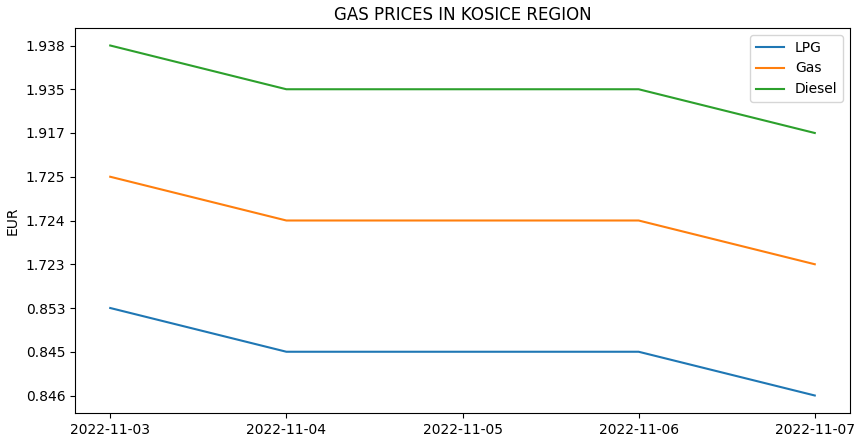
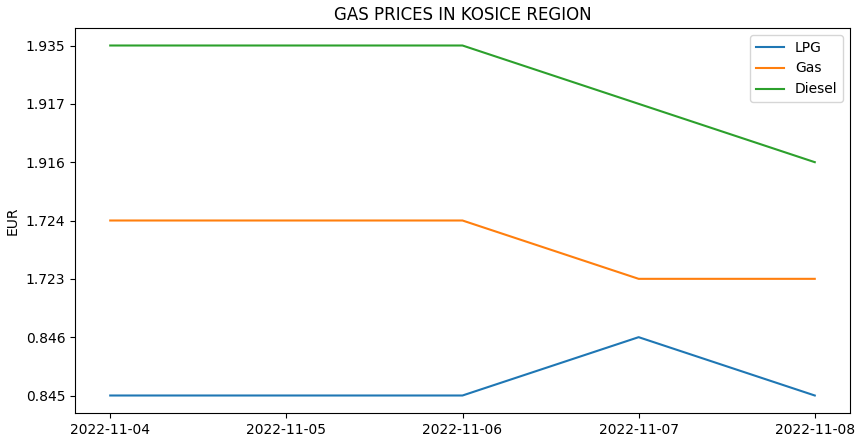
Updating web: 2022-11-08 06:10:55.451245

diff --git a/index.html b/index.html
@@ -15,9 +15,9 @@
   <body>
     <main>
       <header>
-        <h1>Today is Monday, November 07th</h1>
-        <span>week 45, day 311 of the year</span>
-        <span>Today celebrates René</span>
+        <h1>Today is Tuesday, November 08th</h1>
+        <span>week 45, day 312 of the year</span>
+        <span>Today celebrates Bohumír</span>
       </header>
       <modal class="hidden">
         <div class="modal"></div>
@@ -31,27 +31,27 @@
           </article>
           <article class="aktuality">
             <h2>Aktuality</h2>
-            <div> ♦ <a href=https://www.aktuality.sk/clanok/66bw1Qs/zomrel-zakladatel-matadoru-stefan-rosina/ target="_blank">Zomrel zakladateľ Matadoru Štefan Rosina</a></div><div> ♦ <a href=https://www.aktuality.sk/clanok/p5sgyaz/kombajn-zachytil-leziaceho-cloveka-na-poli-v-bratislave/ target="_blank">Kombajn zachytil ležiaceho človeka na poli v Bratislave</a></div><div> ♦ <a href=https://www.aktuality.sk/clanok/xrB8qg5/komentar-lubomira-jaska-ak-orosch-len-napisal-nazor-nech-si-uzije-chrumkave-kusky-demokracie/ target="_blank">Komentár Ľubomíra Jaška: Ak Orosch len napísal názor, nech si užije chrumkavé kúsky demokracie</a></div><div> ♦ <a href=https://www.aktuality.sk/clanok/AuoBUO0/bombardovali-nemecke-rafinerie-no-zajatcami-sa-stali-na-slovensku-letcom-z-usa-sa-lepsie-nemohlo-stat/ target="_blank">Bombardovali nemecké rafinérie, no zajatcami sa stali na Slovensku. Letcom z USA sa lepšie nemohlo stať</a></div><div> ♦ <a href=https://www.aktuality.sk/clanok/S3C9ows/vojna-na-ukrajine-online-primator-klicko-pripravuje-kyjevcanov-aj-na-to-najhorsie/ target="_blank">Vojna na Ukrajine ONLINE: Primátor Kličko pripravuje Kyjevčanov aj na to najhoršie</a></div><div> ♦ <a href=https://www.aktuality.sk/clanok/gT2tmSv/tyzden-vo-filme-netflix-dostane-na-slovensku-novu-konkurenciu-cameron-ukazal-pokracovanie-avatara-a-legendarny-horor-dostane-vlastny-serial/ target="_blank">Týždeň vo filme: Netflix dostane na Slovensku novú konkurenciu, Cameron ukázal pokračovanie Avatara a legendárny horor dostane vlastný seriál</a></div><div> ♦ <a href=https://www.aktuality.sk/clanok/NQHWKpz/cena-za-ii-pilier-sucasni-dochodcovia-maju-priemerne-o-50-eur-nizsi-dochodok-tvrdi-minister-krajniak/ target="_blank">Cena za II. pilier? Súčasní dôchodcovia majú priemerne o 50 eur nižší dôchodok, tvrdí minister Krajniak</a></div>
+            <div> ♦ <a href=https://www.aktuality.sk/clanok/BrvroZe/vojna-na-ukrajine-online-ukrajina-zostatni-niektore-podniky-pre-potreby-armady/ target="_blank">Vojna na Ukrajine ONLINE: Ukrajina zoštátni niektoré podniky pre potreby armády</a></div><div> ♦ <a href=https://www.aktuality.sk/clanok/1T54jqL/unos-vietnamca-vypocuju-exprezidenta-andreja-kisku/ target="_blank">Únos Vietnamca: Vypočujú exprezidenta Andreja Kisku</a></div><div> ♦ <a href=https://www.aktuality.sk/clanok/FiCHitC/otec-utiekol-len-s-parom-topanok-chcel-by-hrat-za-cesko-arber-xhekaj-si-so-slafkovskym-podmanuje-montreal/ target="_blank">Otec utiekol len s párom topánok, chcel by hrať za Česko. Arber Xhekaj si so Slafkovským podmaňuje Montreal</a></div><div> ♦ <a href=https://www.aktuality.sk/clanok/4ew3fuW/panel-expertov-svetova-ekonomika-nebola-v-takejto-situacii-od-2-svetovej-vojny-dlhy-nas-tahaju-ku-dnu/ target="_blank">Panel expertov: Svetová ekonomika nebola v takejto situácii od 2. svetovej vojny. Dlhy nás ťahajú ku dnu</a></div><div> ♦ <a href=https://www.aktuality.sk/clanok/kEZDJaY/v-petrzalskej-kaviarni-bodol-muz-svoju-manzelku-niekolkokrat-do-krku-a-chrbta/ target="_blank">V petržalskej kaviarni bodol muž svoju manželku niekoľkokrát do krku a chrbta</a></div><div> ♦ <a href=https://www.aktuality.sk/clanok/c3QxXEu/rusi-na-ukrajine-hromadne-zomieraju-boj-s-klimou-bez-ruska-a-ciny-podcast/ target="_blank">Rusi na Ukrajine hromadne zomierajú. Boj s klímou bez Ruska a Číny? (podcast)</a></div><div> ♦ <a href=https://www.aktuality.sk/clanok/000MmQ8/zilinka-chce-vediet-ci-funkcionari-nezlyhali-pri-kontrole-hranice-pocas-migracie-dal-preverit-ci-sa-nedopustili-trestnych-cinov/ target="_blank">Žilinka chce vedieť, či funkcionári nezlyhali pri kontrole hranice počas migrácie. Dal preveriť, či sa nedopustili trestných činov</a></div>
           </article>
           <article class="rtvs">
             <h2>RTVS</h2>
-            <div class="rtvs1"><div> ♦ <a href=https://spravy.rtvs.sk/2022/11/zdravotnu-poistovnu-menia-castejsie-chudobnejsi-obcania-tvrdia-analytici/ target="_blank">Zdravotnú poisťovňu menia častejšie chudobnejší občania, tvrdia analytici</a></div><div> ♦ <a href=https://spravy.rtvs.sk/2022/11/ak-skolky-a-umelecke-skoly-nedostanu-financnu-pomoc-priplatia-si-zrejme-rodicia/ target="_blank">Ak škôlky a umelecké školy nedostanú finančnú pomoc, priplatia si zrejme rodičia</a></div><div> ♦ <a href=https://spravy.rtvs.sk/2022/11/v-syrii-pri-raketovych-utokoch-zomrelo-aspon-10-ludi/ target="_blank">V Sýrii pri raketových útokoch zomrelo aspoň 10 ľudí</a></div><div> ♦ <a href=https://spravy.rtvs.sk/2022/11/ruske-urady-hlasia-v-chersone-vypadok-elektriny-a-vody/ target="_blank">Ruské úrady hlásia v Chersone výpadok elektriny a vody</a></div><div> ♦ <a href=https://spravy.rtvs.sk/2022/11/spolutvorca-pata-a-mata-uprednostnil-karieru-karikaturistu-pred-novinarcinou/ target="_blank">Spolutvorca Pata a Mata uprednostnil kariéru karikaturistu pred novinárčinou</a></div><div> ♦ <a href=https://spravy.rtvs.sk/2022/11/talianske-urady-nepovolili-priblizne-opustit-zachrannu-lod-tridsiatke-migrantov/ target="_blank">Talianske úrady nepovolili opustiť záchrannú loď tridsiatke migrantov</a></div><div> ♦ <a href=https://spravy.rtvs.sk/2022/11/slovenski-dopravcovia-v-noci-zablokuju-dialnicu-d2-na-hranici-s-ceskom/ target="_blank">Slovenskí dopravcovia v noci zablokujú diaľnicu D2 na hranici s Českom</a></div><div> ♦ <a href=https://spravy.rtvs.sk/2022/11/oteplovanie-planety-a-stupanie-hladiny-oceanov-sa-zrychluju/ target="_blank">Otepľovanie planéty a stúpanie hladiny oceánov sa zrýchľujú</a></div><div> ♦ <a href=https://spravy.rtvs.sk/2022/11/remisova-povazuje-referendum-za-kampan-smeru-a-hlasu/ target="_blank">Remišová považuje referendum za kampaň Smeru a Hlasu</a></div><div> ♦ <a href=https://spravy.rtvs.sk/2022/11/materske-skoly-navstevuje-necela-tretina-deti-z-marginalizovanych-komunit/ target="_blank">Materské školy navštevuje necelá tretina detí z marginalizovaných komunít</a></div></div>
+            <div class="rtvs1"><div> ♦ <a href=https://spravy.rtvs.sk/2022/11/na-masovom-pohrebisku-pri-mariupole-pribudlo-1-500-novych-hrobov/ target="_blank">Na masovom pohrebisku pri Mariupole pribudlo 1 500 nových hrobov</a></div><div> ♦ <a href=https://spravy.rtvs.sk/2022/11/obyvatelia-obce-zehra-sa-uz-roky-marne-snazia-o-oddelenie-od-osady-drevenik/ target="_blank">Obyvatelia obce Žehra sa už roky márne snažia o oddelenie od osady Dreveník</a></div><div> ♦ <a href=https://spravy.rtvs.sk/2022/11/vedenie-slovenskej-policie-kritizuje-ceskych-kolegov-hovori-o-prevadzacstve/ target="_blank">Vedenie slovenskej polície kritizuje českých kolegov, hovorí o prevádzačstve</a></div><div> ♦ <a href=https://spravy.rtvs.sk/2022/11/specializovane-zdravotnicke-zariadenia-bojuju-so-zvysovanim-cien-energii/ target="_blank">Špecializované zdravotnícke zariadenia bojujú so zvyšovaním cien energií</a></div><div> ♦ <a href=https://spravy.rtvs.sk/2022/11/spustili-dotacie-na-obnovu-pamiatok/ target="_blank">Spustili dotácie na obnovu pamiatok</a></div><div> ♦ <a href=https://spravy.rtvs.sk/2022/11/narodne-parky-muranska-planina-a-poloniny-dostanu-peniaze-z-planu-obnovy/ target="_blank">Národné parky Muránska planina a Poloniny dostanú peniaze z plánu obnovy</a></div><div> ♦ <a href=https://spravy.rtvs.sk/2022/11/klimaticka-kriza-nepocka-na-koniec-tej-energetickej-vyhlasila-prezidentka/ target="_blank">Klimatická kríza nepočká na koniec tej energetickej, vyhlásila prezidentka</a></div><div> ♦ <a href=https://spravy.rtvs.sk/2022/11/na-brehoch-liptovskej-mary-zacali-odstranovat-cierne-stavby/ target="_blank">Na brehoch Liptovskej Mary začali odstraňovať čierne stavby</a></div><div> ♦ <a href=https://spravy.rtvs.sk/2022/11/v-madarsku-obvinili-obcana-slovenska-podozriveho-z-vrazdy-zeny-v-ostrihome/ target="_blank">V Maďarsku obvinili občana Slovenska podozrivého z vraždy ženy v Ostrihome</a></div><div> ♦ <a href=https://spravy.rtvs.sk/2022/11/za-nizku-porodnost-mozu-zeny-ktore-piju-alkohol-tvrdi-kaczynski/ target="_blank">Za nízku pôrodnosť môžu ženy, ktoré pijú alkohol, tvrdí Kaczyňski</a></div></div>
             <button class="button-expand">EXPAND</button>
-            <div class="collapse rtvs2 hidden"><div> ♦ <a href=https://spravy.rtvs.sk/2022/11/britania-oslavi-korunovaciu-krala-karola-iii-statnym-sviatkom/ target="_blank">Británia oslávi korunováciu kráľa Karola III. štátnym sviatkom</a></div><div> ♦ <a href=https://spravy.rtvs.sk/2022/11/za-overenie-profilu-sa-na-twitteri-po-novom-plati/ target="_blank">Za overenie profilu sa na Twitteri po novom platí</a></div><div> ♦ <a href=https://spravy.rtvs.sk/2022/11/v-tanzanii-havarovalo-dopravne-lietadlo-spadlo-do-viktoriinho-jazera/ target="_blank">V Tanzánii havarovalo dopravné lietadlo. Hlásia 19 obetí</a></div><div> ♦ <a href=https://spravy.rtvs.sk/2022/11/tisice-peruancov-ziadalo-odstupenie-prezidenta-castilla/ target="_blank">Tisíce Peruáncov žiadalo odstúpenie prezidenta Castilla</a></div><div> ♦ <a href=https://spravy.rtvs.sk/2022/11/zaporozska-atomova-elektraren-je-opat-napojena-na-vonkajsi-zdroj-energie/ target="_blank">Záporožská atómová elektráreň je opäť napojená na vonkajší zdroj energie</a></div><div> ♦ <a href=https://spravy.rtvs.sk/2022/11/pri-poziari-obytneho-domu-v-new-yorku-sa-zranilo-38-ludi/ target="_blank">Pri požiari obytného domu v New Yorku sa zranilo 38 ľudí</a></div></div>
+            <div class="collapse rtvs2 hidden"><div> ♦ <a href=https://spravy.rtvs.sk/2022/11/energeticky-narocnym-podnikom-pomoze-stat-tento-rok-podporou-vo-vyske-40-milionov-eur/ target="_blank">Energeticky náročným podnikom pomôže štát tento rok podporou vo výške 40 miliónov eur</a></div><div> ♦ <a href=https://spravy.rtvs.sk/2022/11/putinov-kuchar-prigozin-zasahoval-do-volieb-v-usa/ target="_blank">Putinov „kuchár“ Prigožin zasahoval do volieb v USA</a></div><div> ♦ <a href=https://spravy.rtvs.sk/2022/11/najvyssi-spravny-sud-oslobodil-sudkyne-ktore-rozhodovali-o-televiznej-zmenke/ target="_blank">Najvyšší správny súd oslobodil sudkyne, ktoré rozhodovali o televíznej zmenke</a></div><div> ♦ <a href=https://spravy.rtvs.sk/2022/11/oktobrova-revolucia-znamenala-koniec-demokratickeho-ruska/ target="_blank">Októbrová revolúcia znamenala koniec demokratického Ruska</a></div><div> ♦ <a href=https://spravy.rtvs.sk/2022/11/svet-je-na-ceste-do-klimatickeho-pekla-povedal-na-uvod-cop27-guterres/ target="_blank">Svet je na ceste do klimatického pekla, povedal na úvod COP27 Guterres</a></div><div> ♦ <a href=https://spravy.rtvs.sk/2022/11/slagrom-baraze-europskej-ligy-bude-duel-medzi-fc-barcelona-a-manchestrom-united/ target="_blank">Šlágrom baráže Európskej ligy bude duel medzi FC Barcelona a Manchestrom United</a></div><div> ♦ <a href=https://spravy.rtvs.sk/2022/11/nositelka-dvoch-nobelovych-cien-sa-stala-prvou-profesorkou-na-prestiznej-sorbonne/ target="_blank">Nositeľka dvoch Nobelových cien sa stala prvou profesorkou na prestížnej Sorbonne</a></div><div> ♦ <a href=https://spravy.rtvs.sk/2022/11/trnavsky-arcibiskup-sa-ospravedlnil-rodinam-obeti-zo-zamockej/ target="_blank">Trnavský arcibiskup sa ospravedlnil rodinám obetí zo Zámockej</a></div><div> ♦ <a href=https://spravy.rtvs.sk/2022/11/viaceri-ho-prehovarali-aby-sa-stal-prvym-slovenskym-prezidentom/ target="_blank">Viacerí ho prehovárali, aby sa stal prvým slovenským prezidentom</a></div><div> ♦ <a href=https://spravy.rtvs.sk/2022/11/cena-akcii-gazpromu-od-zaciatku-invazie-spadla-takmer-o-90-percent/ target="_blank">Cena akcií Gazpromu od začiatku invázie spadla takmer o 90 percent</a></div><div> ♦ <a href=https://spravy.rtvs.sk/2022/11/v-osemfinale-lm-sa-zopakuje-vlanajsie-finale-real-nastupi-proti-liverpoolu/ target="_blank">V osemfinále LM sa zopakuje vlaňajšie finále, Real nastúpi proti Liverpoolu</a></div><div> ♦ <a href=https://spravy.rtvs.sk/2022/11/macron-vyzval-usa-a-cinu-aby-pomohli-chudobnejsim-krajinam-v-boji-s-klimatickou-zmenou/ target="_blank">Macron vyzval USA a Čínu, aby pomohli chudobnejším krajinám v boji s klimatickou zmenou</a></div><div> ♦ <a href=https://spravy.rtvs.sk/2022/11/vlada-schvalila-poskytovanie-dotacii-podnikom-na-vysoke-ceny-energii/ target="_blank">Vláda schválila poskytovanie dotácií podnikom na vysoké ceny energií</a></div><div> ♦ <a href=https://spravy.rtvs.sk/2022/11/cas-na-prezutie-zimnych-pneumatik-sa-krati/ target="_blank">Čas na prezutie zimných pneumatík sa kráti</a></div><div> ♦ <a href=https://spravy.rtvs.sk/2022/11/po-julovom-zosuve-ladovca-je-lyziarska-sezona-na-masive-marmolada-v-ohrozeni/ target="_blank">Po júlovom zosuve ľadovca je lyžiarska sezóna na masíve Marmolada v ohrození</a></div><div> ♦ <a href=https://spravy.rtvs.sk/2022/11/zilinka-dal-preverit-opatrenia-na-hraniciach-v-suvislosti-s-nelegalnou-migraciou/ target="_blank">Žilinka dal preveriť opatrenia na hraniciach v súvislosti s nelegálnou migráciou</a></div><div> ♦ <a href=https://spravy.rtvs.sk/2022/11/prezidentka-odmieta-tvrdenia-ze-referendum-mohla-vyhlasit-uz-v-oktobri/ target="_blank">Prezidentka odmieta tvrdenia, že referendum  mohla vyhlásiť už v októbri</a></div><div> ♦ <a href=https://spravy.rtvs.sk/2022/11/mrakodrap-v-dubaji-zachvatili-plamene/ target="_blank">Mrakodrap v Dubaji zachvátili plamene</a></div><div> ♦ <a href=https://spravy.rtvs.sk/2022/11/ukrajinci-sa-maju-prichystat-na-dalsie-vypadky-odkazal-prenosovy-operator/ target="_blank">Ukrajinci sa majú prichystať na ďalšie výpadky, odkázal prenosový operátor</a></div><div> ♦ <a href=https://spravy.rtvs.sk/2022/11/sas-vyzyva-premiera-na-zvolanie-mimoriadnej-bezpecnostnej-rady-sr/ target="_blank">SaS vyzýva premiéra na zvolanie mimoriadnej Bezpečnostnej rady SR</a></div><div> ♦ <a href=https://spravy.rtvs.sk/2022/11/vacsina-novinarok-celi-virtualnemu-obtazovaniu-ci-vyhrazkam/ target="_blank">Väčšina novinárok čelí virtuálnemu obťažovaniu či vyhrážkam</a></div><div> ♦ <a href=https://spravy.rtvs.sk/2022/11/autodopravcovia-ukoncili-blokadu-hranicneho-priechodu-s-ceskom/ target="_blank">Autodopravcovia ukončili blokádu hraničného priechodu s Českom</a></div><div> ♦ <a href=https://spravy.rtvs.sk/2022/11/zrazku-autobusu-s-kamionom-v-guinei-neprezilo-najmenej-24-ludi/ target="_blank">Zrážku autobusu s kamiónom v Guinei neprežilo najmenej 24 ľudí</a></div><div> ♦ <a href=https://spravy.rtvs.sk/2022/11/cina-hlasi-najvyssi-pocet-infikovanych-za-pol-roka-a-to-aj-napriek-nulovej-tolerancii-covidu/ target="_blank">Čína hlási najvyšší počet infikovaných za pol roka, a to aj napriek nulovej tolerancii covidu</a></div><div> ♦ <a href=https://spravy.rtvs.sk/2022/11/poslanci-smeru-sd-maju-zneuzivat-neexistujucu-dohodu/ target="_blank">Poslanci Smeru-SD majú zneužívať neexistujúcu dohodu</a></div><div> ♦ <a href=https://spravy.rtvs.sk/2022/11/sobolenkova-si-zahra-finale-turnaja-majsteriek-proti-garciovej/ target="_blank">Sobolenková si zahrá finále turnaja majsteriek proti Garciovej</a></div><div> ♦ <a href=https://spravy.rtvs.sk/2022/11/nhl-halak-zneskodnil-33-striel-jeho-rangers-vsak-aj-tak-prehrali/ target="_blank">NHL: Halák zneškodnil 33 striel, jeho Rangers však aj tak prehrali</a></div><div> ♦ <a href=https://spravy.rtvs.sk/2022/11/najvyssi-sud-v-grecku-nariadil-vysetrovanie-skandalu-so-sledovanim-politikov-1/ target="_blank">Najvyšší súd v Grécku nariadil vyšetrovanie škandálu so sledovaním politikov</a></div><div> ♦ <a href=https://spravy.rtvs.sk/2022/11/z-vrazdy-novinara-na-filipinach-policia-obvinila-sefa-statnych-vaznic/ target="_blank">Z vraždy novinára na Filipínach polícia obvinila šéfa štátnych väzníc</a></div><div> ♦ <a href=https://spravy.rtvs.sk/2022/11/ukrajinske-sily-mali-znicit-velitelske-stanoviste-dronov/ target="_blank">Ukrajinské sily mali zničiť veliteľské stanovište dronov</a></div><div> ♦ <a href=https://spravy.rtvs.sk/2022/11/bidenov-poradca-neverejne-rokoval-s-ruskymi-predstavitelmi/ target="_blank">Bidenov poradca neverejne rokoval s ruskými predstaviteľmi</a></div><div> ♦ <a href=https://spravy.rtvs.sk/2022/11/vojenska-pomoc-iranu-pre-rusko-predlzuje-vojnu-tvrdi-zelenskyj/ target="_blank">Vojenská pomoc Iránu pre Rusko predlžuje vojnu, tvrdí Zelenskyj</a></div><div> ♦ <a href=https://spravy.rtvs.sk/2022/11/armada-kldr-sa-vyhraza-zdrvujucou-reakciou-na-manevre-usa-a-juznej-korey/ target="_blank">Armáda KĽDR sa vyhráža zdrvujúcou reakciou na manévre USA a Južnej Kórey</a></div><div> ♦ <a href=https://spravy.rtvs.sk/2022/11/rusko-tvrdi-ze-ukrajinci-ostrelovali-priehradu-pri-kachovskej-vodnej-elektrarni/ target="_blank">Rusko tvrdí, že Ukrajinci ostreľovali priehradu pri Kachovskej vodnej elektrárni</a></div></div>
           </article>
           <article class="szgoodnews">
             <h2>Good news - Sunny skyz</h2>
-            No data
+            <div> ♦ <a href=https://www.sunnyskyz.com/good-news/4841/New-Bee-Species-With-Distinctive-039-Snout-039-Discovered-In-Western-Australia target="_blank">New Bee Species With Distinctive 'Snout' Discovered In Western Australia</a></div><div> ♦ <a href=https://www.sunnyskyz.com/good-news/4840/Electricity-Generating-Windows-Scientists-Design-More-Efficient-Transparent-Solar-Panels target="_blank">Electricity-Generating Windows: Scientists Design More Efficient Transparent Solar Panels</a></div>
           </article>
           <article class="theverge">
             <h2>TheVerge</h2>
-            <div class="theverge1"><div> ♦ <a href=https://www.theverge.com/23438982/hp-victus-15-gaming-laptop-review-specs-price target="_blank">HP Victus 15 review: an $800 laptop that can game (No category)</a></div><div> ♦ <a href=https://www.theverge.com/2022/11/6/23443871/elon-musk-twitter-permaban-impersonation-parody target="_blank">Elon Musk’s response to fake verified Elon Twitter accounts: a new permanent ban policy for impersonation (Twitter)</a></div><div> ♦ <a href=https://www.theverge.com/2022/11/6/23443863/iphone-14-pro-max-longer-wait-times-factory-lockdown-foxconn target="_blank">The iPhone 14 Pro and Pro Max will come with ‘longer wait times’ due to factory lockdown (Apple)</a></div><div> ♦ <a href=https://www.theverge.com/2022/11/6/23443699/meta-reportedly-planning-lay-off-thousands-workers-this-week target="_blank">Meta’s reportedly planning to lay off ‘thousands’ of workers this week (Meta)</a></div><div> ♦ <a href=https://www.theverge.com/2022/11/6/23443520/twitter-delaying-launch-blue-with-verification-after-midterm-elections-elon-musk target="_blank">Twitter’s delaying the launch of Blue with verification until after the elections (Twitter)</a></div><div> ♦ <a href=https://www.theverge.com/2022/11/6/23443215/apple-copyright-claims-ripped-down-fan-archival-wwdc-youtube-channel target="_blank">Apple’s copyright claims ripped down a fan’s archival WWDC YouTube channel (Apple)</a></div><div> ♦ <a href=https://www.theverge.com/2022/11/6/23443110/apple-swap-hey-siri-wake-word-rumors-voice-assistant target="_blank">Apple reportedly wants to swap the ‘Hey Siri’ trigger phrase for just ‘Siri’ (Apple)</a></div></div>
-            
-            <div class="collapse theverge2 hidden"></div>
+            <div class="theverge1"><div> ♦ <a href=https://www.theverge.com/2022/11/7/23445476/elon-musk-twitter-user-growth-all-time-high-advertisers target="_blank">Twitter tells advertisers that user growth is at ‘all-time highs’ under Elon Musk (No category)</a></div><div> ♦ <a href=https://www.theverge.com/2022/11/7/23446262/elon-musk-twitter-paywall-possible target="_blank">Elon Musk has discussed putting all of Twitter behind a paywall (Platformer)</a></div><div> ♦ <a href=https://www.theverge.com/2022/11/7/23446136/amc-zoom-rooms-theaters-meetings target="_blank">AMC is working with Zoom to turn some theaters into giant meeting rooms (Tech)</a></div><div> ♦ <a href=https://www.theverge.com/2022/11/7/23446171/screen-name-twitter-musk-parody-whoops target="_blank">How am I supposed to mark myself as parody if I can’t change my screen name, Elon? (Elon Musk)</a></div><div> ♦ <a href=https://www.theverge.com/2022/11/7/23445777/t-mobile-home-internet-fiber-5g-partnership-search target="_blank">T-Mobile may be looking to spend big on fiber home internet (Mobile)</a></div><div> ♦ <a href=https://www.theverge.com/23435489/holiday-gift-guide-best-ideas-cool-tech target="_blank">The Verge Holiday Gift Guide 2022 (Deals)</a></div><div> ♦ <a href=https://www.theverge.com/2022/11/7/23445765/activision-call-of-duty-2023-next-full-premium-game-title target="_blank">Activision says the ‘next full premium’ Call of Duty is coming in 2023 (Gaming)</a></div><div> ♦ <a href=https://www.theverge.com/2022/11/7/23445329/nanoleaf-lines-squared-release-date-price target="_blank">Nanoleaf is now for squares (Gadgets)</a></div><div> ♦ <a href=https://www.theverge.com/2022/11/7/23445125/bitcoin-silk-road-recovered-investigators-billions target="_blank">Ten-year hunt leads to 50,000 stolen Bitcoin stored in a popcorn tin and underground safe (Policy)</a></div><div> ♦ <a href=https://www.theverge.com/2022/11/7/23445606/pixel-7-pro-november-update-battery-life-improvements-google target="_blank">Google’s Pixel 7 and 7 Pro get minor November update ahead of new features next month (Google)</a></div></div>
+            <button class="button-expand">EXPAND</button>
+            <div class="collapse theverge2 hidden"><div> ♦ <a href=https://www.theverge.com/2022/11/7/23445167/wordle-the-new-york-times-editor-tracy-bennett target="_blank">Now Wordle has an editor in charge of picking the next answer (Gaming)</a></div><div> ♦ <a href=https://www.theverge.com/2022/11/7/23445408/netflix-gears-of-war-movie-animated-tv-series-show target="_blank">Netflix is making a Gears of War movie and an animated TV series (Netflix)</a></div><div> ♦ <a href=https://www.theverge.com/2022/11/7/23445412/ps5-playstation-5-restock-sony-direct-consoles-november target="_blank">You can get in line right now to buy a PlayStation 5 from Sony (update: sold out) (Gadgets)</a></div><div> ♦ <a href=https://www.theverge.com/2022/11/7/23444773/ifixit-google-pixel-6a-parts-right-to-repair target="_blank">iFixit starts selling parts for the Google Pixel 6A (Google)</a></div><div> ♦ <a href=https://www.theverge.com/2022/11/7/23445099/netflix-monster-dahmer-the-watcher-renewed target="_blank">Netflix wants more of Ryan Murphy’s Monster anthology (Tv Shows)</a></div><div> ♦ <a href=https://www.theverge.com/2022/11/7/23444848/climate-risk-property-search-online-tools-fire-heat-flood-map target="_blank">To see climate risks your home faces, check out two new tools (Climate)</a></div><div> ♦ <a href=https://www.theverge.com/2022/11/7/23444530/youtube-shorts-tv-app-tiktok target="_blank">YouTube Shorts are coming to your TV — and taking over the platform (Youtube)</a></div><div> ♦ <a href=https://www.theverge.com/2022/11/7/23444791/signal-stories-ios-android-now-available target="_blank">Now everyone can post their Stories on Signal (Apps)</a></div><div> ♦ <a href=https://www.theverge.com/23440913/hp-pavilion-plus-14-intel-oled-laptop-review-price-specs-features-design target="_blank">HP’s Pavilion Plus 14 is a powerful, confusing OLED machine (Reviews)</a></div><div> ♦ <a href=https://www.theverge.com/2022/11/7/23444811/star-wars-the-acolyte-cast-lee-jung-jae-carrie-anne-moss-disney-plus target="_blank">Star Wars spinoff The Acolyte adds Lee Jung-jae, Carrie-Anne Moss, and more to cast (Star Wars)</a></div><div> ♦ <a href=https://www.theverge.com/23444665/glass-onion-knives-out-mystery-trailer-netflix target="_blank">Glass Onion’s new trailer invites you to an elaborate murder mystery party (Streaming)</a></div><div> ♦ <a href=https://www.theverge.com/23438967/hakcat-wifi-nugget-hacking-open-source-hak5 target="_blank">The HakCat WiFi Nugget is a beginner’s guide to wireless mischief (Security)</a></div><div> ♦ <a href=https://www.theverge.com/2022/11/7/23441056/fortnite-fncs-trophy-swarovski-epic-games target="_blank">Fortnite’s new trophy was made by Swarovski (Gaming)</a></div></div>
           </article>
           <article>
             <h2>Formula 1</h2>
-            <div> ♦ <a href=https://www.formula1.com//en/latest/article.i-always-believed-in-the-project-max-verstappen-on-red-bull-his-second-title.7mbvN7HjprbEf3VGYDKFzM.html target="_blank">‘I always believed in the project’ – Max Verstappen on Red Bull, his second title and how long he plans to race in F1</a></div><div> ♦ <a href=https://www.formula1.com//en/latest/article.theres-no-limit-to-what-we-can-do-hamilton-on-fighting-back-best-friend.6G5Be1bYJ4AzCkYAmrv0BH.html target="_blank">‘There’s no limit to what we can do’ – Hamilton on fighting back, ‘best friend’ Wolff, and changing the world</a></div><div> ♦ <a href=https://www.formula1.com//en/latest/article.f1-esports-series-pro-championship-opmeer-wins-at-cota-in-round-9.3t1kI4hswSC7gn0cRyb7lB.html target="_blank">F1 Esports Series Pro Championship: Opmeer wins at COTA in Round 9</a></div><div> ♦ <a href=https://www.formula1.com//en/latest/article.horner-reveals-red-bull-have-talked-to-norris-a-couple-of-times-over-the.N0EqYwfv6F69YRV4HaJxq.html target="_blank">Horner reveals Red Bull have held talks with Norris ‘a couple of times’ about potential F1 deal</a></div><div> ♦ <a href=https://www.formula1.com//en/latest/article.de-vries-labels-age-irrelevant-as-he-prepares-to-contest-first-f1-season-in.6pIqlGkTHU11KR7oYXdVDR.html target="_blank">De Vries labels age ‘irrelevant’ as he prepares to contest first F1 season in his late-20s</a></div><div> ♦ <a href=https://www.formula1.com//en/latest/article.ricciardo-insists-new-hamilton-contract-wouldnt-affect-his-f1-future-as-he.njoqmlge4S9irGhkIVrvS.html target="_blank">Ricciardo insists new Hamilton contract wouldn’t affect his F1 future as he aims to ‘come back with a vengeance’ in 2024</a></div>
+            <div> ♦ <a href=https://www.formula1.com//en/latest/article.return-of-the-sprint-and-mercedes-closing-on-ferrari-5-storylines-were.58js9Y0grbbUkWQvFaQLFD.html target="_blank">Return of the Sprint and Mercedes closing on Ferrari – 5 storylines we’re excited about ahead of the Sao Paulo GP</a></div><div> ♦ <a href=https://www.formula1.com//en/latest/article.how-does-the-f1-sprint-work-the-format-explained-ahead-of-imola.4ep6uU8VYFMgftvTYxkZdI.html target="_blank">How does the F1 Sprint work? The format explained ahead of its return this weekend in Brazil</a></div><div> ♦ <a href=https://www.formula1.com//en/latest/article.vettel-invites-fans-to-be-part-of-his-final-f1-race-with-special-helmet.2wSnAQ1AAUMncFxuzB21bE.html target="_blank">Vettel invites fans to be part of his final F1 race with special helmet design auction</a></div><div> ♦ <a href=https://www.formula1.com//en/latest/article.watch-relive-last-years-thrilling-sao-paulo-gp-as-hamilton-recovers-to-take.4AKkFly1ZXh3rueEpgkdpZ.html target="_blank">WATCH: Relive last year’s thrilling Sao Paulo GP as Hamilton recovers to take the fight to Verstappen</a></div><div> ♦ <a href=https://www.formula1.com//en/latest/article.hes-driving-better-than-ever-russell-on-the-prospect-of-hamilton-signing-new.1cBA263JigrAFmrUgSLnfZ.html target="_blank">‘He’s driving better than ever’ – Russell on the prospect of Hamilton signing new Mercedes deal</a></div><div> ♦ <a href=https://www.formula1.com//en/latest/article.watch-conor-moore-brings-his-hilarious-f1-impressions-to-the-paddock.tVaF1ft5Hrt1c5EFgabFA.html target="_blank">WATCH: Conor Moore brings his hilarious F1 impressions to the paddock</a></div>
           </article>
           <article class="gas">
             <img class="benzin" src="./gas.png" />
@@ -65,67 +65,59 @@
           <article>
             <h2>English word of the day</h2>
             <div class="base"><table>
-        <tr><td rowspan="2"><h3 class="native">Serendipity</h3></td>
-        <td style="text-align: left;"><span class="reading"><small><em>sair-un-DIP-uh-tee</em></small></span></td></tr>
-        <tr><td><span class="type"><small><strong><em>noun</em></strong></small></span></td></tr></table>
-        <span class="meaning">Serendipity is luck that takes the form of finding valuable or pleasant things that are not looked for.</span>
+        <tr><td rowspan="2"><h3 class="native">Encapsulate</h3></td>
+        <td style="text-align: left;"><span class="reading"><small><em>in-KAP-suh-layt</em></small></span></td></tr>
+        <tr><td><span class="type"><small><strong><em>verb</em></strong></small></span></td></tr></table>
+        <span class="meaning">Encapsulate means “to show or express the main idea or quality of (something) in a brief way.”  </span>
         </div><div class="sentences"><ul><li><div class="sentences">
-            <span class="sentence-native">We found the restaurant by pure serendipity, rather than careful research, but it turned out to be the best deal in town.</span></li></ul></div>
+            <span class="sentence-native">Her first album encapsulates the sound of the 90s.</span></li></ul></div>
           </article>
           <article>
             <h2>Spanish word of the day</h2>
             <table>
-        <tr><td><h3 class="native">El jengibre</h3></td></tr>
-        <tr><td><span class="meaning">Ginger</span><br></td></tr></table><div class="sentences"><ul>
-        <li><span class="sentence-native"><strong>¡El jengibre tiene muchos beneficios para la salud!</strong></span><br>
-        <span class="sentence-meaning">Ginger has a lot of health benefits!</span></li></ul></div>
+        <tr><td><h3 class="native">Espolvorear</h3></td></tr>
+        <tr><td><span class="meaning">To sprinkle</span><br></td></tr></table><div class="sentences"><ul>
+        <li><span class="sentence-native"><strong>Espolvoreé canela sobre el pastel.</strong></span><br>
+        <span class="sentence-meaning">I sprinkled cinnamon on the cake.</span></li></ul></div>
           </article>
           <article>
             <h2>Korean word of the day</h2>
             <div class="base"><table>
-        <tr><td rowspan="2"><h3 class="native">열</h3></td>
-        <td><span class="reading"><small><em><a target="_blank" href="https://d1pra95f92lrn3.cloudfront.net/audio/23836.mp3">yeol</em></small></a>
+        <tr><td rowspan="2"><h3 class="native">비자</h3></td>
+        <td><span class="reading"><small><em><a target="_blank" href="https://d1pra95f92lrn3.cloudfront.net/audio/17938.mp3">bija</em></small></a>
         </span></td></tr>
-        <tr><td><span class="meaning">fever</span><br></td></tr>
+        <tr><td><span class="meaning">visa</span><br></td></tr>
         </table></div><div class="sentences"><ul><li><div class="sentences">
-            <span class="sentence-native"><strong>열이 나요.</strong></span><br>
-            <span class="sentence-roman"><small><em><a href="https://d1pra95f92lrn3.cloudfront.net/audio/1796368.mp3">Yeori nayo.</a></em></small>
+            <span class="sentence-native"><strong>저는 중국에 가기 위해 비자를 얻어야 합니다.</strong></span><br>
+            <span class="sentence-roman"><small><em><a href="https://d1pra95f92lrn3.cloudfront.net/audio/370164.mp3">Jeoneun jungguge gagi wihae bijareul eodeoya hamnida.</a></em></small>
             </span><br>
-            <span class="sentence-meaning">I have a fever.</span></li><li><div class="sentences">
-            <span class="sentence-native"><strong>여자가 열이 있습니다.</strong></span><br>
-            <span class="sentence-roman"><small><em><a href="https://d1pra95f92lrn3.cloudfront.net/audio/231906.mp3">Yeojaga yeori itsseumnida.</a></em></small>
+            <span class="sentence-meaning">I want to get a visa to go to China.</span></li><li><div class="sentences">
+            <span class="sentence-native"><strong>중국 비자</strong></span><br>
+            <span class="sentence-roman"><small><em><a href="https://d1pra95f92lrn3.cloudfront.net/audio/254656.mp3">Jungguk bija</a></em></small>
             </span><br>
-            <span class="sentence-meaning">The woman has a fever.</span></li><li><div class="sentences">
-            <span class="sentence-native"><strong>그는 열이 백이 도 있습니다.</strong></span><br>
-            <span class="sentence-roman"><small><em><a href="https://d1pra95f92lrn3.cloudfront.net/audio/982261.mp3">Geuneun yeori baegi do itsseumnida.</a></em></small>
+            <span class="sentence-meaning">Chinese visa</span></li><li><div class="sentences">
+            <span class="sentence-native"><strong>여행 비자</strong></span><br>
+            <span class="sentence-roman"><small><em><a href="https://d1pra95f92lrn3.cloudfront.net/audio/254655.mp3">yeohaeng bija</a></em></small>
             </span><br>
-            <span class="sentence-meaning">He has a fever of 102 degrees.</span></li><li><div class="sentences">
-            <span class="sentence-native"><strong>열이 있다</strong></span><br>
-            <span class="sentence-roman"><small><em><a href="https://d1pra95f92lrn3.cloudfront.net/audio/231907.mp3">yeori itta</a></em></small>
-            </span><br>
-            <span class="sentence-meaning">have a fever</span></li><li><div class="sentences">
-            <span class="sentence-native"><strong>열이 나다</strong></span><br>
-            <span class="sentence-roman"><small><em><a href="https://d1pra95f92lrn3.cloudfront.net/audio/277122.mp3">yeori nada</a></em></small>
-            </span><br>
-            <span class="sentence-meaning">run a fever</span></li></ul></div>
+            <span class="sentence-meaning">travel visa</span></li></ul></div>
           </article>
           <article>
             <h2>Japanese word of the day</h2>
             <div class="base"><table>
-        <tr><td rowspan="3"><h3 class="native">治る</h3></td>
-        <td><span class="reading"><small><em><a target="_blank" href="https://wotd.transparent.com/japanese/2021/words/JPNjp_00315.mp3">なおる
+        <tr><td rowspan="3"><h3 class="native">長生き</h3></td>
+        <td><span class="reading"><small><em><a target="_blank" href="https://wotd.transparent.com/japanese/2021/words/JPNjp_00316.mp3">ながいき
         </em></small></a></span></td></tr>
-        <tr><td><span class="type"><small><em><strong>verb</strong></em></small></span><br></td></tr>
-        <tr><td><span class="meaning">to be cured, to get well</span><br></td></tr></table></div><div class="sentences"><ul>
-        <li><span class="sentence-native"><strong>便秘もしっかり治りました。</strong></span><br>
-        <span class="sentence-roman"><small><em><a href="https://wotd.transparent.com/japanese/2021/sentences/JPNjp_00681.mp3">べんぴもしっかりなおりました。
+        <tr><td><span class="type"><small><em><strong>noun</strong></em></small></span><br></td></tr>
+        <tr><td><span class="meaning">longevity, long life</span><br></td></tr></table></div><div class="sentences"><ul>
+        <li><span class="sentence-native"><strong>テクノロジーの進化に伴い、人々も長生きになりました。</strong></span><br>
+        <span class="sentence-roman"><small><em><a href="https://wotd.transparent.com/japanese/2021/sentences/JPNjp_00682.mp3">てくのろじぃのしんかにともない、ひどびともながいきになりました。
         </a></em></small></span><br>
-        <span class="sentence-meaning">They have also been cured of their constipation.</span></li></ul></div>
+        <span class="sentence-meaning">People's longevity has increased as technology has become more developed.</span></li></ul></div>
           </article>
         </data>
       </content>
       <footer>
-          <div>Generated 2022-11-07 at 06:10:06</div>
+          <div>Generated 2022-11-08 at 06:10:05</div>
           <div><em><a href="mailto:kamil.democko@gmail.com">© Democko Kamil</a></em></div>
       </footer>
     </main>
